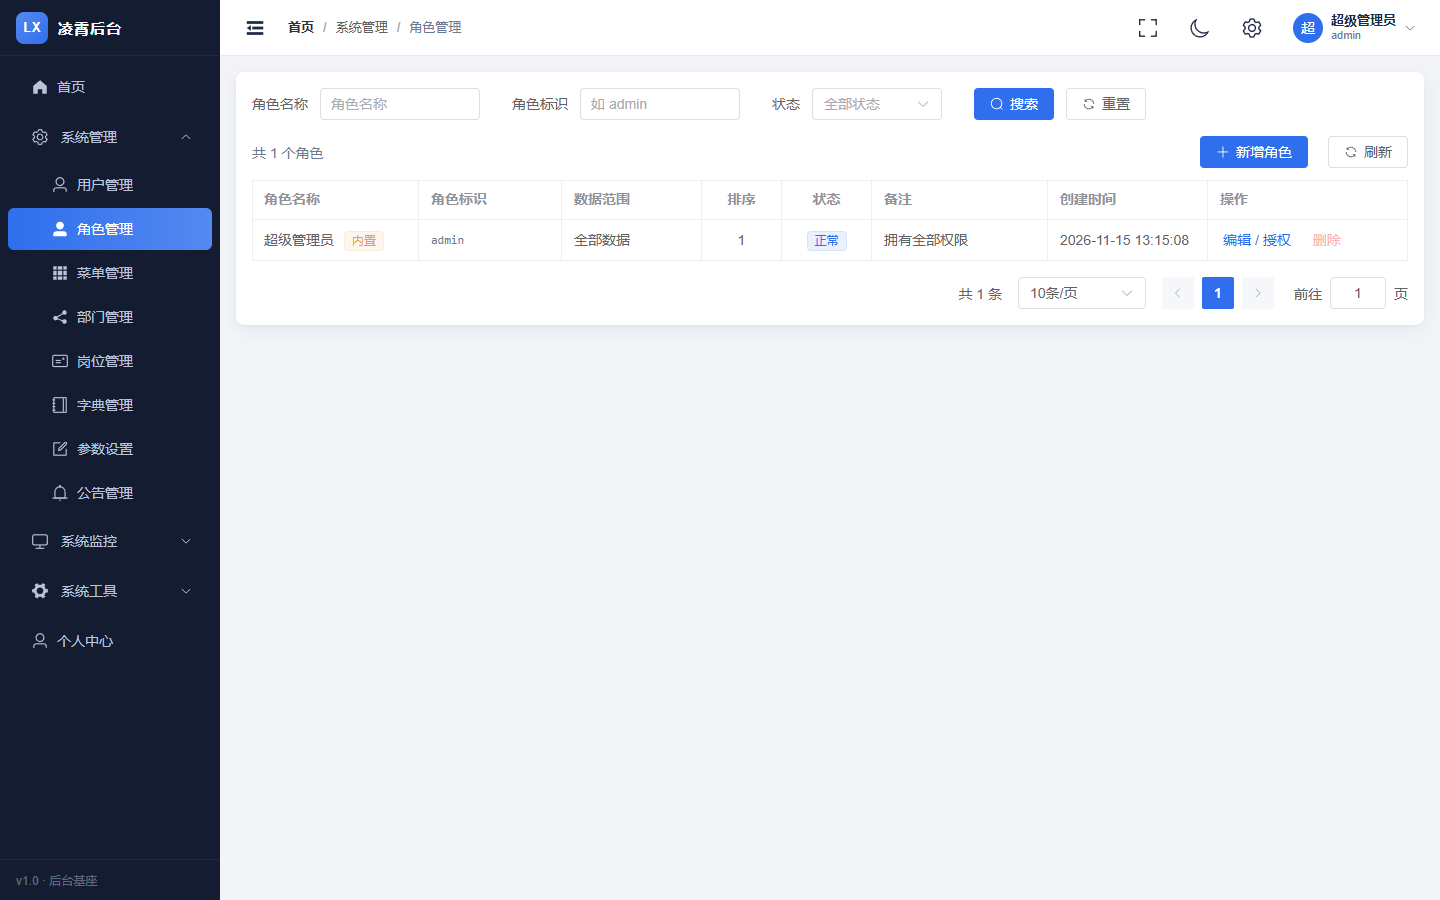
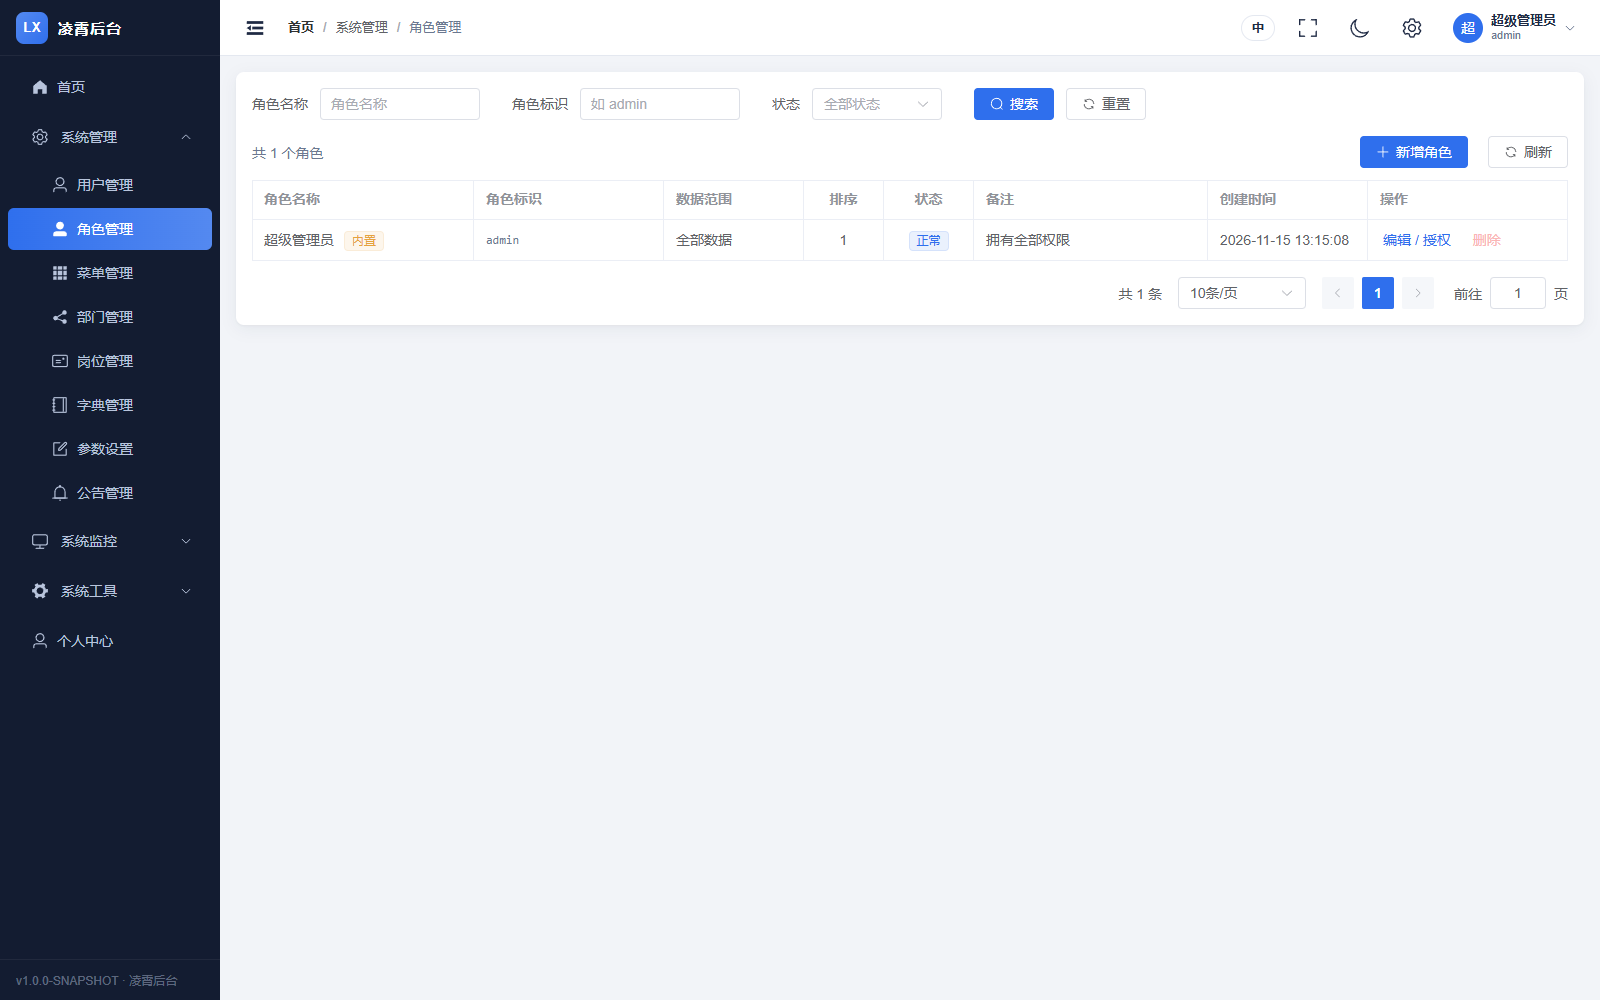
docs(release): 发布包演练通过并补齐英文界面截图
- 空库 + prod profile 验证 Flyway V1~V17、登录、参数、在线用户、上传，
  接口文档与生成器按 prod 设计返回 404
- README.en 换用 12 张英文截图，并说明业务数据保持录入语言
- 登录页英文默认账号文案允许换行，避免挤压“记住我”
- 同步 docs 的测试数（99 项 / 20 类）、前端直接依赖数（11）与待办状态

diff --git a/lx-ui-admin/src/views/login/index.vue b/lx-ui-admin/src/views/login/index.vue
@@ -345,8 +345,16 @@ onMounted(refreshCaptcha)
   display: flex;
   align-items: center;
   justify-content: space-between;
+  flex-wrap: wrap;
+  gap: 4px 12px;
   margin-top: 18px;
   font-size: 12px;
+}
+
+/* 英文默认账号文案较长：空间不够时换行并保持右对齐，不压住“记住用户名” */
+.login-extra .text-secondary {
+  margin-left: auto;
+  text-align: right;
 }
 
 .login-copyright {

diff --git a/docs/21-build-log.md b/docs/21-build-log.md
@@ -22,6 +22,9 @@
 | 接口文档 | ✅ 完成 | SpringDoc 1.7 + Knife4j 4.4，`/doc.html` 200、68 条路径；后端 26 项 + UI 10 项（见第 30 节） |
 | 个人中心自助 | ✅ 完成 | 改资料 / 原密码校验改密 / 全部会话失效；后端 31 项 + UI 13 项（见第 30 节） |
 | 会话策略 | ✅ 完成 | 默认单会话踢旧、参数可开多端；删除 / 停用 / 重置立即踢下线；接口 18 项（见第 44 节） |
+| 多语言 L1 | ✅ 完成 | 中英界面键集合 903 / 903 对齐；错误码、菜单、参数、字典全走语言包（见第 41 / 45 节） |
+| 品牌 / 版本收口 | ✅ 完成 | 唯一真源 `lx.app.*` + 根 pom 版本；公开接口 `/api/admin/app/profile`（见第 46 节） |
+| 发布包演练 | ✅ 完成 | `deploy/package.ps1` 打包，空白库 + prod profile + 静态代理跑通登录 / 上传（见第 47 节） |
 | 系统管理 CRUD | ✅ 完成 | 8 个控制器、25 个按钮权限、74 项接口验证全部通过（见第 13 节） |
 | 前端 `lx-ui-admin` | ✅ 完成 | 17 个页面、动态路由、22 项 UI 冒烟全通过、验证码开启下真人登录成功（见第 20 / 29 / 30 节） |
 
@@ -4391,4 +4394,116 @@ vite build        通过
 | 前端为什么还要读接口 | 不读就只能写死；多一次轻量 GET（每会话一次），失败时静默回退语言包，不阻塞登录 |
 | 为什么开发环境显示 `v1.0.0-SNAPSHOT` | 版本直接来自 pom，不手工截断；正式构建把版本改成 `1.0.0` 即显示 `v1.0.0` |
 | 中英文名算不算两处 | 同一个 `lx.app` 配置块里的两个字段，属于一份配置；英文缺省时自动用中文名兜底 |
-| 为什么不做成参数设置项 | 品牌 / 版本是制品与部署属性，不是运行期业务参数；参数表清空不应影响登录页
+| 为什么不做成参数设置项 | 品牌 / 版本是制品与部署属性，不是运行期业务参数；参数表清空不应影响登录页 |
+
+---
+
+## 47. 第二十七轮：发布包演练 + 英文界面截图
+
+### 47.1 做了什么
+
+把“本地能跑”推进到“发出去的包能跑”：
+
+1. 重新构建 jar 与前端 dist，用 `deploy/package.ps1` 组装发布包；
+2. 解压到临时目录，用 `application-prod.yml` + 空白数据库启动；
+3. 逐项验证登录、参数、在线用户、上传、生产禁用项；
+4. 用最小静态服务器 + `/api` 反向代理模拟 Nginx，跑浏览器端关键路径；
+5. 补 12 张英文界面截图，`README.en.md` 全部换用英文图。
+
+### 47.2 打包
+
+```powershell
+mvn -q "-DskipTests" package          # lx-boot/target/lingxiao.jar ≈ 52 MB
+cd lx-ui-admin; npm run build         # dist/index.html
+powershell -ExecutionPolicy Bypass -File deploy\package.ps1 -Version 1.0.0-SNAPSHOT
+```
+
+产物：`release/lingxiao-1.0.0-SNAPSHOT/` 与同名 `.zip`。目录内容：
+
+```
+bin/  config/  data/  logs/  nginx/  run/  sql/  web/
+lingxiao.jar  lingxiao.service  README.md
+```
+
+> 打包时 PowerShell 会打印本机 `fnm` 初始化失败（`fnm_multishells` 权限），
+> 那是终端配置噪音，脚本本身退出码为 0，包内容完整。
+
+### 47.3 干净目录 + prod profile 启动
+
+```sql
+-- 空白库（不影响开发库 lingxiao）
+CREATE DATABASE lingxiao_drill CHARSET utf8mb4 COLLATE utf8mb4_general_ci;
+GRANT SELECT, INSERT, UPDATE, DELETE, CREATE, ALTER, INDEX, DROP, REFERENCES
+  ON lingxiao_drill.* TO 'lingxiao'@'%';
+```
+
+```powershell
+# 解压后用环境变量覆盖，不把密码写进 yml
+$env:DB_HOST='127.0.0.1'; $env:DB_PORT='3307'; $env:DB_NAME='lingxiao_drill'
+$env:DB_USER='lingxiao';  $env:DB_PASSWORD='lingxiao123'; $env:SERVER_PORT='8082'
+java -jar lingxiao.jar --spring.profiles.active=prod --lx.captcha.enabled=false
+```
+
+结果：Flyway 在空白库依次应用 **V1 ~ V17**，无校验失败；应用正常启动，
+日志落在包内 `logs/lingxiao.log`，上传目录落在包内 `data/upload/`。
+
+### 47.4 接口验证
+
+| 检查项 | 结果 |
+|---|---|
+| `GET /api/admin/app/profile`（匿名） | 200，`凌霄后台 / LingXiao Admin / 1.0.0-SNAPSHOT` |
+| `POST /api/admin/auth/login` | 200，返回平台 Token |
+| 参数列表 | 200，10 条，参数名正常（无乱码） |
+| 在线用户 | 200，1 个会话 |
+| `POST /api/admin/file/upload` | 200，写入 `data/upload/common/2026/11/...` |
+| 文件列表 | 200，能查到刚上传的文件 |
+| `GET /v3/api-docs` | **404**（prod 按设计关闭） |
+| `GET /api/admin/tool/gen/list` | **404**（prod 按设计关闭生成器） |
+
+### 47.5 模拟 Nginx 的浏览器验收
+
+本机没有安装 Nginx，用约 90 行 Node 脚本承担同样职责：静态文件 + 回退 `index.html`
++ `/api/*` 反向代理到 8082。`drill-check.mjs` 结果 **4/4**：
+
+```
+PASS 登录页：release 包读取版本 :: 后台管理基座 · v1.0.0-SNAPSHOT
+PASS 首页：prod 后端 + release 前端联调 :: 欢迎使用凌霄后台。当前登录账号 admin
+PASS 用户管理：列表渲染 :: 1
+PASS 控制台无 error
+```
+
+### 47.6 遇到的问题
+
+| 现象 | 原因 | 处理 |
+|---|---|---|
+| 静态服务器返回 `forbidden` | `path.join(ROOT, '/login')` 里的前导 `/` 被当成根路径 | 改为 `path.resolve(ROOT, '.' + urlPath)` 并保留前缀校验 |
+| 代码生成页截图为空 | 开发库还没导入过表 | 通过 `POST /api/admin/tool/gen/import` 导入 `sys_notice` 后重拍 |
+| 登录页英文默认账号文案挤压 | 英文比中文长，“记住我 / 默认账号”挤在一行 | `.login-extra` 允许换行，右侧文案 `margin-left:auto` 右对齐 |
+
+### 47.7 英文截图
+
+`13-login-en.png` ~ `24-theme-drawer-en.png` 共 12 张，全部在 `en-US` 下真实登录后截取：
+
+登录 / 首页 / 用户 / 角色 / 参数 / 字典 / 生成器 / 服务监控 / 定时任务 / 文件中心 / 暗色主题 / 主题抽屉。
+
+`README.en.md` 主表和折叠区已全部换成英文图，并说明：
+界面文案是英文，**业务数据（任务名、备注等）仍是录入时的语言**，内容级翻译属于 L2。
+
+### 47.8 验收
+
+```
+deploy/package.ps1                退出码 0，zip 内容完整
+空库 Flyway                        V1~V17 全部 applied
+prod 接口                         8/8 符合预期（含 2 个按设计 404）
+drill-check.mjs                   4/4
+英文截图                          12 张，console error = 0
+```
+
+### 47.9 取舍与遗留
+
+| 问题 | 说明 |
+|---|---|
+| 为什么用 Node 模拟 Nginx | 本机没有 Nginx；演练目标是“前后端分离后的真实路径”，静态 + 代理足够覆盖 |
+| 发布包里的 `application-prod.yml` 是否可直接上线 | 是示例配置，敏感项全部走环境变量；上线前按 `deploy/README.md` 核对 |
+| 回滚怎么做 | 保留上一版目录与数据库备份；Flyway 只前进，回滚用备份库 + 旧包，不写逆向迁移 |
+| 真实 Nginx 验证 | 仍建议在一台有 Nginx 的 Linux 机器上用 `deploy/nginx/lingxiao.conf` 再走一遍 |

diff --git a/README.en.md b/README.en.md
@@ -21,10 +21,10 @@ LingXiao is a **modular monolith** foundation for back-office systems. It is not
 Version **v1.0** ships the admin foundation. CMS, membership, workflow and SaaS multi-tenancy plug in later as independent modules without touching the core.
 
 <p align="center">
-  <img src="docs/images/02-dashboard.png" width="900" alt="LingXiao dashboard" />
+  <img src="docs/images/14-dashboard-en.png" width="900" alt="LingXiao dashboard" />
 </p>
 
-> The UI is Chinese-only in v1.0. Bilingual UI (zh-CN / en-US) is in progress — see [docs/23-i18n-plan.md](docs/23-i18n-plan.md).
+> The admin UI ships in Chinese and English (`zh-CN` / `en-US`, switchable in the top bar). Business data written by users — menu-free text such as a job name or a remark — stays in the language it was entered; content-level translation (`i18n_*` tables) is a later phase, see [docs/23-i18n-plan.md](docs/23-i18n-plan.md).
 
 ## Features
 
@@ -68,7 +68,7 @@ Version **v1.0** ships the admin foundation. CMS, membership, workflow and SaaS 
 **Engineering**
 
 - Maven multi-module with auto-configuration and three-layer module switches; **disabled means not loaded** (beans, endpoints, migrations and frontend routes all go away)
-- 92 unit tests that need neither MySQL nor Redis; GitHub Actions covers JDK 8 / 11 / 17 plus the frontend build
+- 99 unit tests that need neither MySQL nor Redis; GitHub Actions covers JDK 8 / 11 / 17 plus the frontend build
 - One jar runs on JDK 8, 11 and 17
 - Production profile and packaging scripts included: `java -jar` + Nginx; prod disables the generator, API docs and SQL logging
 
@@ -76,22 +76,22 @@ Version **v1.0** ships the admin foundation. CMS, membership, workflow and SaaS 
 
 | Login | Dashboard |
 |:---:|:---:|
-| <img src="docs/images/01-login.png" width="430" alt="Login" /> | <img src="docs/images/02-dashboard.png" width="430" alt="Dashboard" /> |
+| <img src="docs/images/13-login-en.png" width="430" alt="Login" /> | <img src="docs/images/14-dashboard-en.png" width="430" alt="Dashboard" /> |
 | **Users** | **Role permissions** |
-| <img src="docs/images/03-user.png" width="430" alt="Users" /> | <img src="docs/images/04-role.png" width="430" alt="Role permissions" /> |
+| <img src="docs/images/15-user-en.png" width="430" alt="Users" /> | <img src="docs/images/16-role-en.png" width="430" alt="Role permissions" /> |
 | **Settings (typed controls)** | **Dictionaries** |
-| <img src="docs/images/05-config.png" width="430" alt="Settings" /> | <img src="docs/images/06-dict.png" width="430" alt="Dictionaries" /> |
+| <img src="docs/images/17-config-en.png" width="430" alt="Settings" /> | <img src="docs/images/18-dict-en.png" width="430" alt="Dictionaries" /> |
 
 <details>
 <summary>More screenshots (code generator / server monitor / jobs / file center / dark theme)</summary>
 
 | Code generator | Server monitor |
 |:---:|:---:|
-| <img src="docs/images/07-gen.png" width="430" alt="Code generator" /> | <img src="docs/images/08-server.png" width="430" alt="Server monitor" /> |
+| <img src="docs/images/19-gen-en.png" width="430" alt="Code generator" /> | <img src="docs/images/20-server-en.png" width="430" alt="Server monitor" /> |
 | **Scheduled jobs** | **File center** |
-| <img src="docs/images/09-job.png" width="430" alt="Scheduled jobs" /> | <img src="docs/images/10-file.png" width="430" alt="File center" /> |
+| <img src="docs/images/21-job-en.png" width="430" alt="Scheduled jobs" /> | <img src="docs/images/22-file-en.png" width="430" alt="File center" /> |
 | **Dark theme** | **Theme drawer** |
-| <img src="docs/images/11-dashboard-dark.png" width="430" alt="Dark theme" /> | <img src="docs/images/12-theme-drawer.png" width="430" alt="Theme drawer" /> |
+| <img src="docs/images/23-dashboard-dark-en.png" width="430" alt="Dark theme" /> | <img src="docs/images/24-theme-drawer-en.png" width="430" alt="Theme drawer" /> |
 
 </details>
 

diff --git a/docs/13-roadmap.md b/docs/13-roadmap.md
@@ -465,15 +465,20 @@ tool:gen:import|edit|preview|remove|download
 - 给出回退链：`请求语言 → 默认语言 → 数据库原文`，以及缓存策略（Caffeine / Redis）；
 - 产出评审结论后再排期，避免先写代码后改表。
 
-### 12.4 P1：发布包演练
+### 12.4 P1：发布包演练（✅ 已完成，见 `docs/21` §47）
 
 - `deploy/package.ps1` / `.sh` 打包（jar + 前端 dist + SQL + 脚本）；
 - 解压到干净目录，用 `application-prod.yml` + Nginx 跑通登录 / 上传 / 生成器关闭；
 - 写部署核对清单（JDK、时区、上传目录权限、Flyway、健康检查、回滚）。
 
+**结果**：`lingxiao-1.0.0-SNAPSHOT.zip` 解压到临时目录，`--spring.profiles.active=prod`
+连空白库 `lingxiao_drill`，Flyway V1~V17 全部 applied；登录 / 参数 / 在线用户 / 上传 / 文件列表
+全部通过，`/v3/api-docs` 与 `/api/admin/tool/gen/list` 按 prod 设计返回 404。
+本机没有 Nginx，用最小 Node 静态服务器 + `/api` 反向代理模拟，浏览器验收 4/4。
+
 ### 12.5 P2：零散小活（各 30 分钟内）
 
-- README / README.en 补 3 张英文界面截图（登录、列表、监控），双语现在只有中文图；
-- `docs/21-build-log.md` 目录 / 索引补 §41；
-- 清理 `docs/23` §7 中已被本轮实现覆盖的“暂缓”条目；
-- 核对 `docs/22` 前端依赖表与 `package-lock.json` 是否仍有偏差。
+- ✅ README / README.en 英文界面截图：12 张（`13-*` ~ `24-*`），README.en 已全部换用；
+- ✅ `docs/21-build-log.md` §0 速览已补多语言 / 品牌 / 发布包三行；
+- ✅ 清理 `docs/23` §7 中已被本轮实现覆盖的“暂缓”条目；
+- ✅ 核对 `docs/22` 前端依赖表与 `package-lock.json`：16 个版本号一致，直接依赖数 10 → 11。

diff --git a/docs/27-github-onboarding.md b/docs/27-github-onboarding.md
@@ -57,7 +57,7 @@ $z.Dispose()
 | `lx-common/` `lx-framework/` `lx-modules/` `lx-api/` `lx-boot/` | ✅ | 后端源码、Flyway 脚本、`application.yml` |
 | `lx-ui-admin/`（不含 `node_modules/` `dist/`） | ✅ | 前端源码、`package-lock.json`、`.env.development` |
 | `docs/` `deploy/` `README.md` `.github/` | ✅ | 文档、部署脚本、CI |
-| 各模块 `src/test/` | ✅ | 92 项单测 |
+| 各模块 `src/test/` | ✅ | 99 项单测 |
 | `deploy/sql/lingxiao-1.0.0.sql` | ✅ | 50 KB 数据库快照，clone 后可直接导入（见 3.3 方式 B） |
 | `lx-ui-admin/public/ueditor-plus/` | ❌ | `prebuild` 从 npm 包生成，不入库 |
 | `target/` `dist/` `release/` | ❌ | 构建产物，重新生成 |
@@ -309,7 +309,7 @@ VITE_PORT=5173
 - 后端 v1.0 基座：登录鉴权、8 组系统管理、文件中心、监控、定时任务、代码生成器、模块开关；
 - 前端 18 个业务页面 + 动态路由 + 主题切换 + 个人中心；
 - 登录安全（失败锁定、密码策略）、发布包与部署脚本；
-- 92 项 JUnit 单测 + GitHub Actions 最小 CI；
+- 99 项 JUnit 单测 + GitHub Actions 最小 CI；
 - 文档 01~27。
 
 下一轮候选（按优先级）：

diff --git a/docs/11-jdk-engineering.md b/docs/11-jdk-engineering.md
@@ -321,7 +321,7 @@ jobs:
 
 **当前门禁（已生效）：**
 
-- 后端测试矩阵 JDK 8 / 11 / 17 全绿（当前 92 项 / 18 个类，以 CI 结果为准）。
+- 后端测试矩阵 JDK 8 / 11 / 17 全绿（当前 99 项 / 20 个类，以 CI 结果为准）。
 - JDK 8 上 `package` 成功，产物为 `lx-boot/target/lingxiao.jar`。
 - 前端 `npm ci` + `npm run build` 成功（锁文件可复现）。
 
@@ -547,7 +547,7 @@ java -server \
 
 | 层 | 工具 | 覆盖 | v1.0 状态 |
 |---|---|---|---|
-| 单元测试 | JUnit5 + Mockito + AssertJ | 纯逻辑、安全清洗、参数校验 | **已落地**：92 项 / 18 个类，`mvn test` |
+| 单元测试 | JUnit5 + Mockito + AssertJ | 纯逻辑、安全清洗、参数校验 | **已落地**：99 项 / 20 个类，`mvn test` |
 | 集成测试 | Spring Boot Test + Testcontainers | Mapper、事务、Flyway、Redis | 未引入，等需要时再加 |
 | 接口测试 | PowerShell 脚本（`Invoke-RestMethod`） | 登录、权限、CRUD、越权 | **已落地**：`.local/verify-*.ps1` |
 | 页面回归 | Puppeteer | 登录、主题、上传、生成器 | **已落地**：`.local/uitest/*.mjs` |

diff --git a/docs/22-dependencies.md b/docs/22-dependencies.md
@@ -315,7 +315,7 @@
 
 **后端 102 个 jar 里，真正“选型”的只有 12 个左右**（Boot、MP、Sa-Token、Flyway、Knife4j、
 Hutool、Jsoup、Velocity、Thumbnailator、Caffeine、MySQL 驱动、spring-security-crypto），
-其余都是它们的传递闭包。前端同理：10 个直接依赖 + Vite 两个开发依赖。
+其余都是它们的传递闭包。前端同理：11 个直接依赖 + Vite 两个开发依赖。
 测试依赖（JUnit / Mockito / AssertJ）只存在于 `test` scope，不在发布包内，
 单独见本文 2.12 与 [`docs/26-testing-ci.md`](26-testing-ci.md)。
 把这张表当“房产证”看：以后谁再问“项目用了什么”，直接翻这里。

diff --git a/docs/26-testing-ci.md b/docs/26-testing-ci.md
@@ -93,7 +93,7 @@ mvn -B -ntp -DskipTests package
 | `lx-module-generator` | `TextUtilsTest` | 8 | 注释折叠、Javadoc 截断、JS / HTML / Java / SQL 四类转义 |
 | `lx-boot` | `AppProfileTest` | 4 | 品牌名 trim、中英文名互相兜底、版本空值转空串 |
 
-合计：**Tests run: 99, Failures: 0, Errors: 0, Skipped: 0**（2026-11-20，JDK 8 跑通；66 项基线于 2026-11-15 在 JDK 8 / 11 各跑一遍）。
+合计：**Tests run: 99, Failures: 0, Errors: 0, Skipped: 0**（2026-11-21，JDK 8 跑通；66 项基线于 2026-11-15 在 JDK 8 / 11 各跑一遍）。
 
 ---
 

diff --git a/README.md b/README.md
@@ -66,7 +66,7 @@
 **工程**
 
 - Maven 多模块 + 自动装配 + 三层模块开关，**关闭 = 不加载**（Bean、接口、迁移、前端路由一起下线）
-- 92 项单元测试（不依赖 MySQL / Redis），GitHub Actions 覆盖 JDK 8 / 11 / 17 与前端构建
+- 99 项单元测试（不依赖 MySQL / Redis），GitHub Actions 覆盖 JDK 8 / 11 / 17 与前端构建
 - 一个 jar 同时跑在 JDK 8 / 11 / 17 上
 - 生产配置与发布包组装脚本齐备：`java -jar` + Nginx，prod 关闭生成器 / 接口文档 / SQL 日志
 
